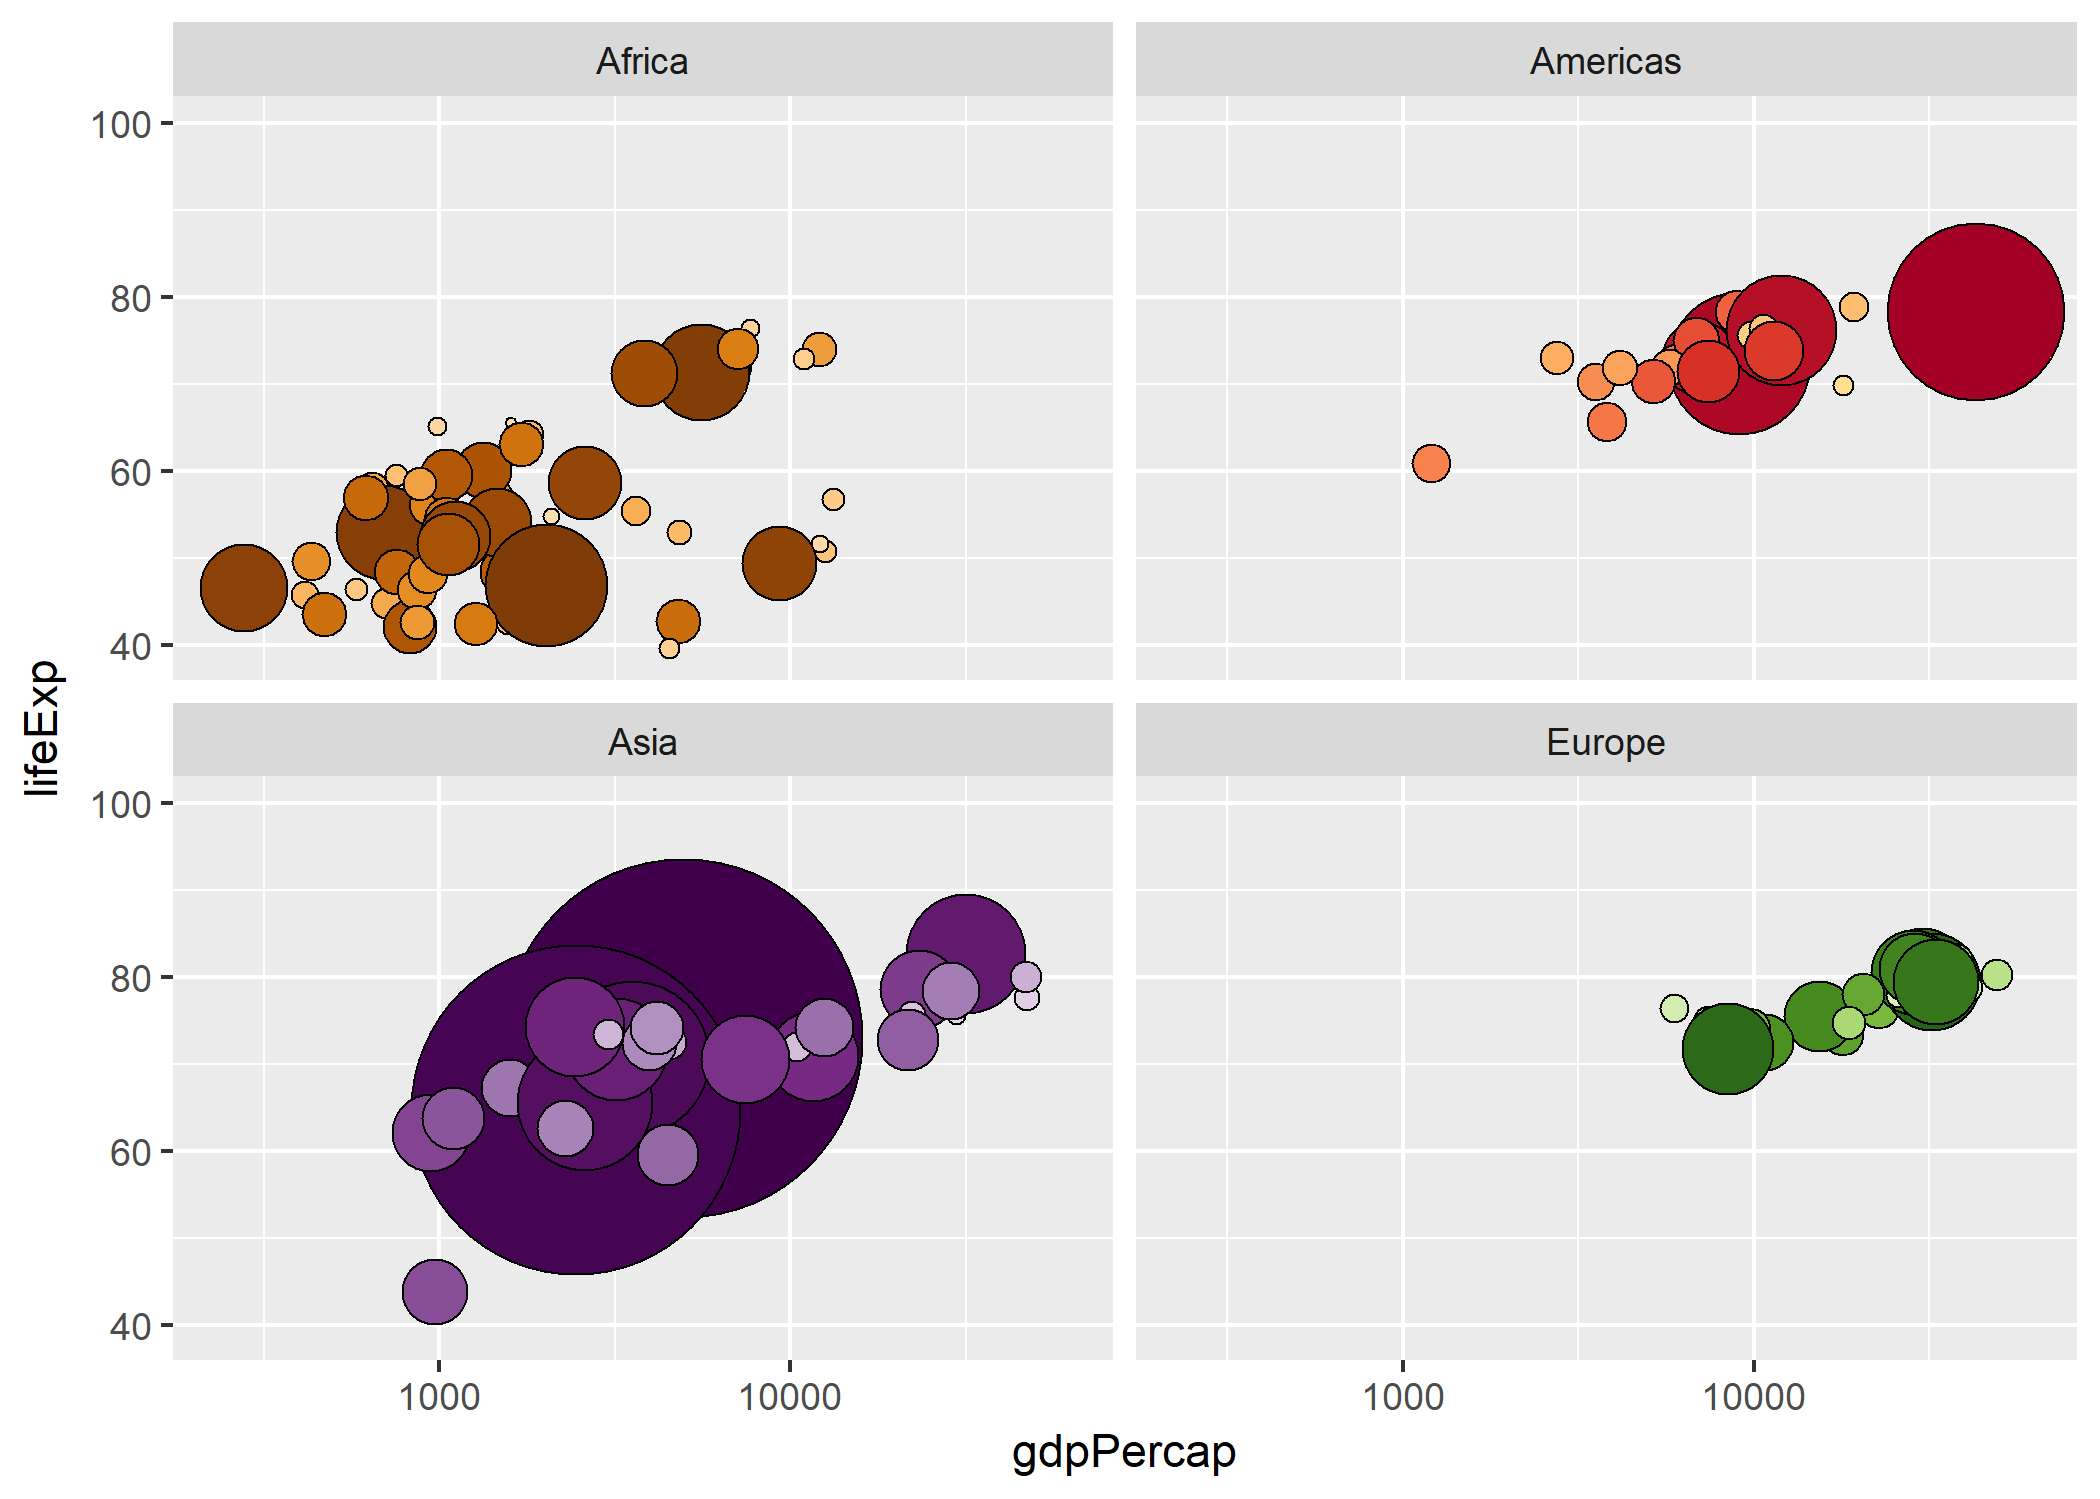
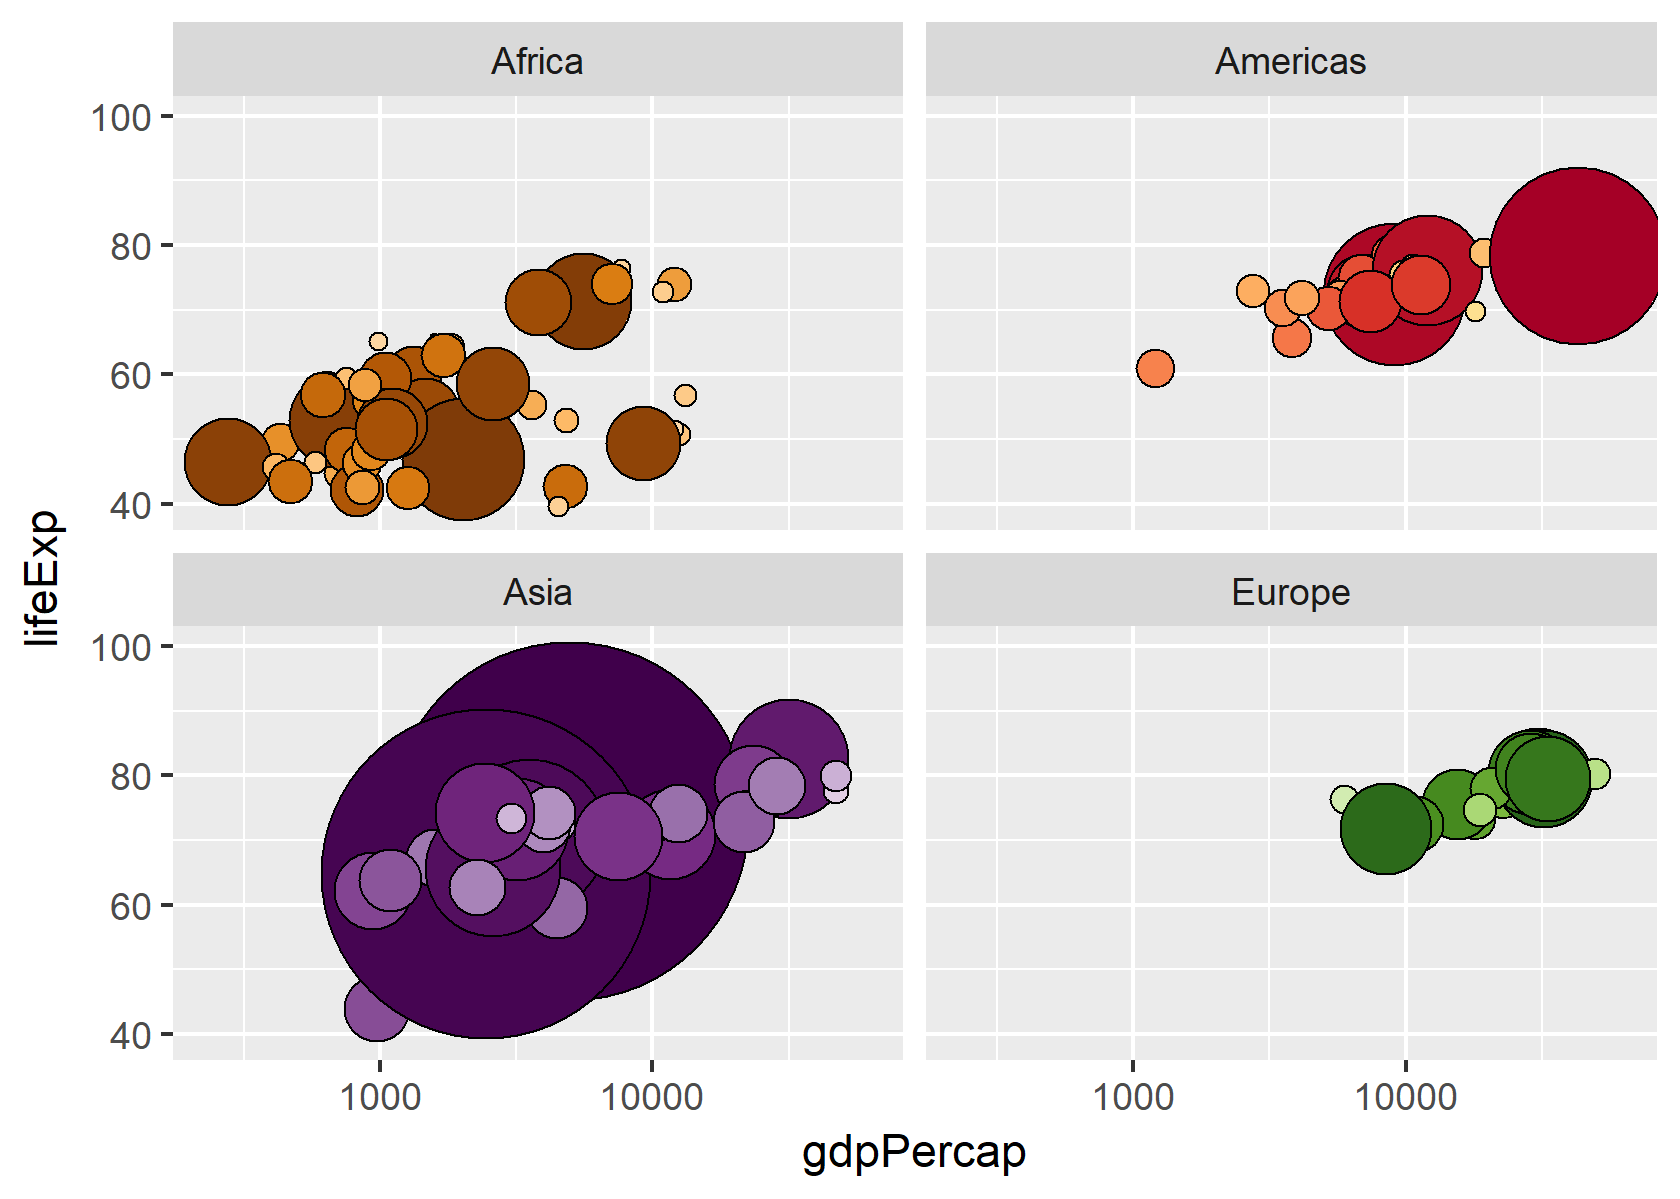
Work on Visualization Design, and gonna try different function to write data into a file

diff --git a/hw05/hw05_Gapminder.md b/hw05/hw05_Gapminder.md
@@ -97,7 +97,7 @@ gapminder %>%
 
 ``` r
 gapminder %>% 
-  mutate(continent=fct_reorder(continent, gdpPercap, mean, .desc=TRUE) ) %>% 
+  mutate(continent=fct_reorder(continent, gdpPercap, mean, .desc=TRUE)) %>% 
   group_by(continent) %>% 
   summarise(mean_gdpPercap = mean(gdpPercap, na.rm=TRUE)) %>% 
   knitr::kable()
@@ -194,6 +194,23 @@ temp %>%
 Visualization Design
 ====================
 
+``` r
+gap_with_colors <-
+  data.frame(gapminder,
+             cc = I(country_colors[match(gapminder$country,
+                                         names(country_colors))]))
+
+# bubble plot, focus just on Africa and Europe in 2007
+keepers <- with(gap_with_colors,
+                continent %in% c("Africa", "Europe") & year == 2007)
+plot(lifeExp ~ gdpPercap, gap_with_colors,
+     subset = keepers, log = "x", pch = 21,
+     cex = sqrt(gap_with_colors$pop[keepers]/pi)/1500,
+     bg = gap_with_colors$cc[keepers])
+```
+
+![](hw05_Gapminder_files/figure-markdown_github-ascii_identifiers/visualization_design-1.png)
+
 Writing Figures to File
 =======================
 
@@ -208,10 +225,10 @@ p <- gapminder %>%
   facet_wrap(~continent)+
   scale_fill_manual(values = country_colors)
 
-ggsave("img.png", plot=p)
+ggsave("img.png", plot=p, scale=0.8)
 ```
 
-    ## Saving 7 x 5 in image
+    ## Saving 5.6 x 4 in image
 
 Display the figure we saved.
 
